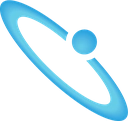
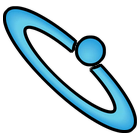
Fix overzealous validation
* make a few emojis prettier

Changed region(s): [[0.0, 0.0, 1.0, 1.0]]

diff --git a/src/main/java/ti4/message/MessageHelper.java b/src/main/java/ti4/message/MessageHelper.java
@@ -23,6 +23,7 @@ import net.dv8tion.jda.api.entities.channel.concrete.ThreadChannel;
 import net.dv8tion.jda.api.entities.channel.concrete.ThreadChannel.AutoArchiveDuration;
 import net.dv8tion.jda.api.entities.channel.middleman.MessageChannel;
 import net.dv8tion.jda.api.entities.channel.unions.MessageChannelUnion;
+import net.dv8tion.jda.api.entities.emoji.ApplicationEmoji;
 import net.dv8tion.jda.api.entities.emoji.CustomEmoji;
 import net.dv8tion.jda.api.entities.emoji.Emoji;
 import net.dv8tion.jda.api.entities.emoji.UnicodeEmoji;
@@ -51,6 +52,7 @@ import ti4.map.Game;
 import ti4.map.Player;
 import ti4.map.manage.GameManager;
 import ti4.map.manage.ManagedGame;
+import ti4.service.emoji.ApplicationEmojiService;
 import ti4.service.game.GameNameService;
 
 public class MessageHelper {
@@ -90,7 +92,7 @@ public class MessageHelper {
 	public static void sendMessageToChannelWithButtons(MessageChannel channel, String messageText, List<Button> buttons) {
 		String gameName = GameNameService.getGameNameFromChannel(channel);
 		if (GameManager.isValid(gameName) && buttons instanceof ArrayList
-				&& !(channel instanceof ThreadChannel) && channel.getName().contains("actions")) {
+			&& !(channel instanceof ThreadChannel) && channel.getName().contains("actions")) {
 			buttons = addUndoButtonToList(buttons, gameName);
 		}
 		sendMessageToChannelWithEmbedsAndButtons(channel, messageText, null, buttons);
@@ -101,7 +103,7 @@ public class MessageHelper {
 	}
 
 	public static void sendMessageToChannelWithEmbedsAndButtons(@Nonnull MessageChannel channel, @Nullable String messageText,
-																@Nullable List<MessageEmbed> embeds, @Nullable List<Button> buttons) {
+		@Nullable List<MessageEmbed> embeds, @Nullable List<Button> buttons) {
 		splitAndSent(messageText, channel, embeds, buttons);
 	}
 
@@ -782,7 +784,8 @@ public class MessageHelper {
 
 			// REMOVE EMOJIS IF BOT CAN'T SEE IT
 			if (button.getEmoji() instanceof CustomEmoji emoji) {
-				if (AsyncTI4DiscordBot.jda.getEmojiById(emoji.getId()) == null) {
+				if (ApplicationEmojiService.isValidAppEmoji(emoji)) {
+				} else if (AsyncTI4DiscordBot.jda.getEmojiById(emoji.getId()) == null) {
 					String label = button.getLabel();
 					if (label.isBlank()) {
 						label = String.format(":%s:", emoji.getName());

diff --git a/src/main/java/ti4/service/emoji/ApplicationEmojiService.java b/src/main/java/ti4/service/emoji/ApplicationEmojiService.java
@@ -15,6 +15,7 @@ import java.util.stream.Stream;
 import lombok.Getter;
 import net.dv8tion.jda.api.entities.Icon;
 import net.dv8tion.jda.api.entities.emoji.ApplicationEmoji;
+import net.dv8tion.jda.api.entities.emoji.CustomEmoji;
 import ti4.AsyncTI4DiscordBot;
 import ti4.helpers.Constants;
 import ti4.helpers.Storage;
@@ -196,6 +197,10 @@ public class ApplicationEmojiService {
     }
 
     // SERVICE ------------------------------------------------------------------------------------------------------
+    public static boolean isValidAppEmoji(CustomEmoji emoji) {
+        return emojis.get(emoji.getName()).getFormatted().equals(emoji.getFormatted());
+    }
+
     @Getter
     public static class EmojiFileData {
         private File file;
